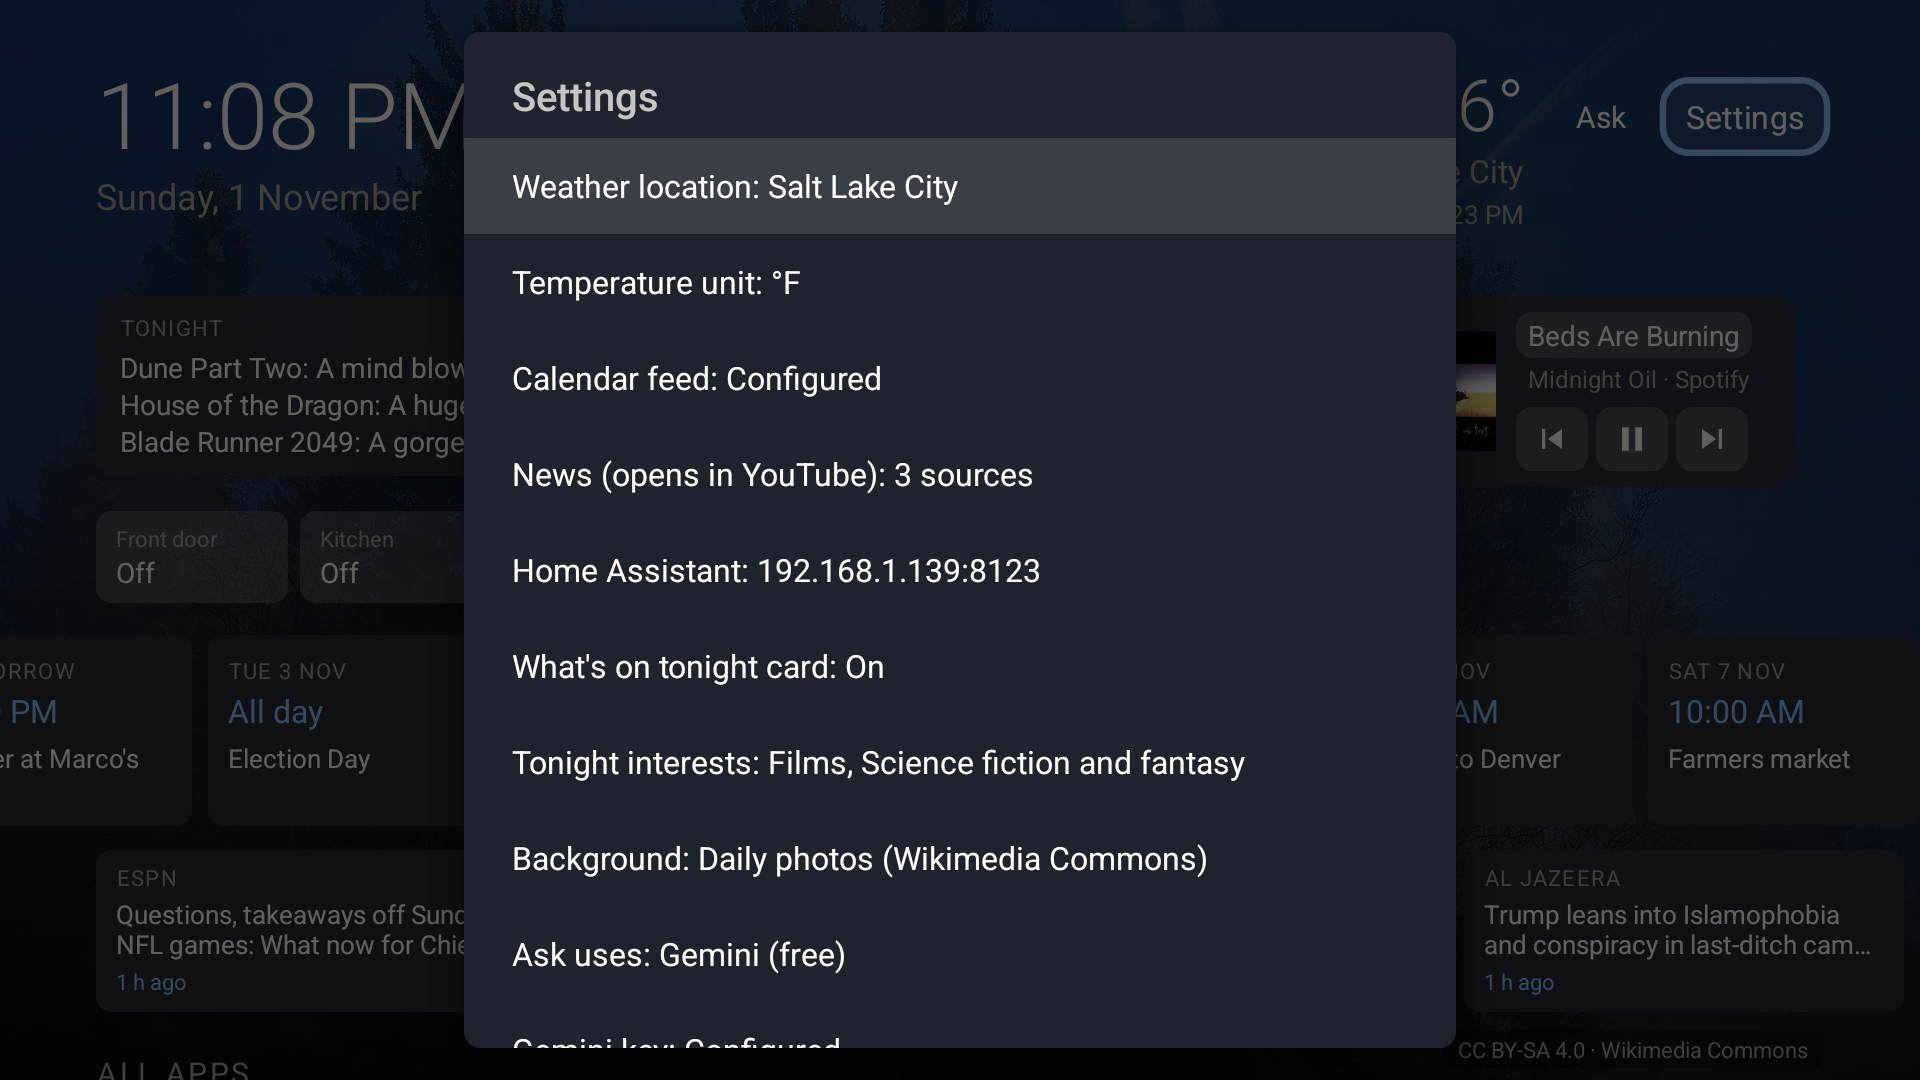
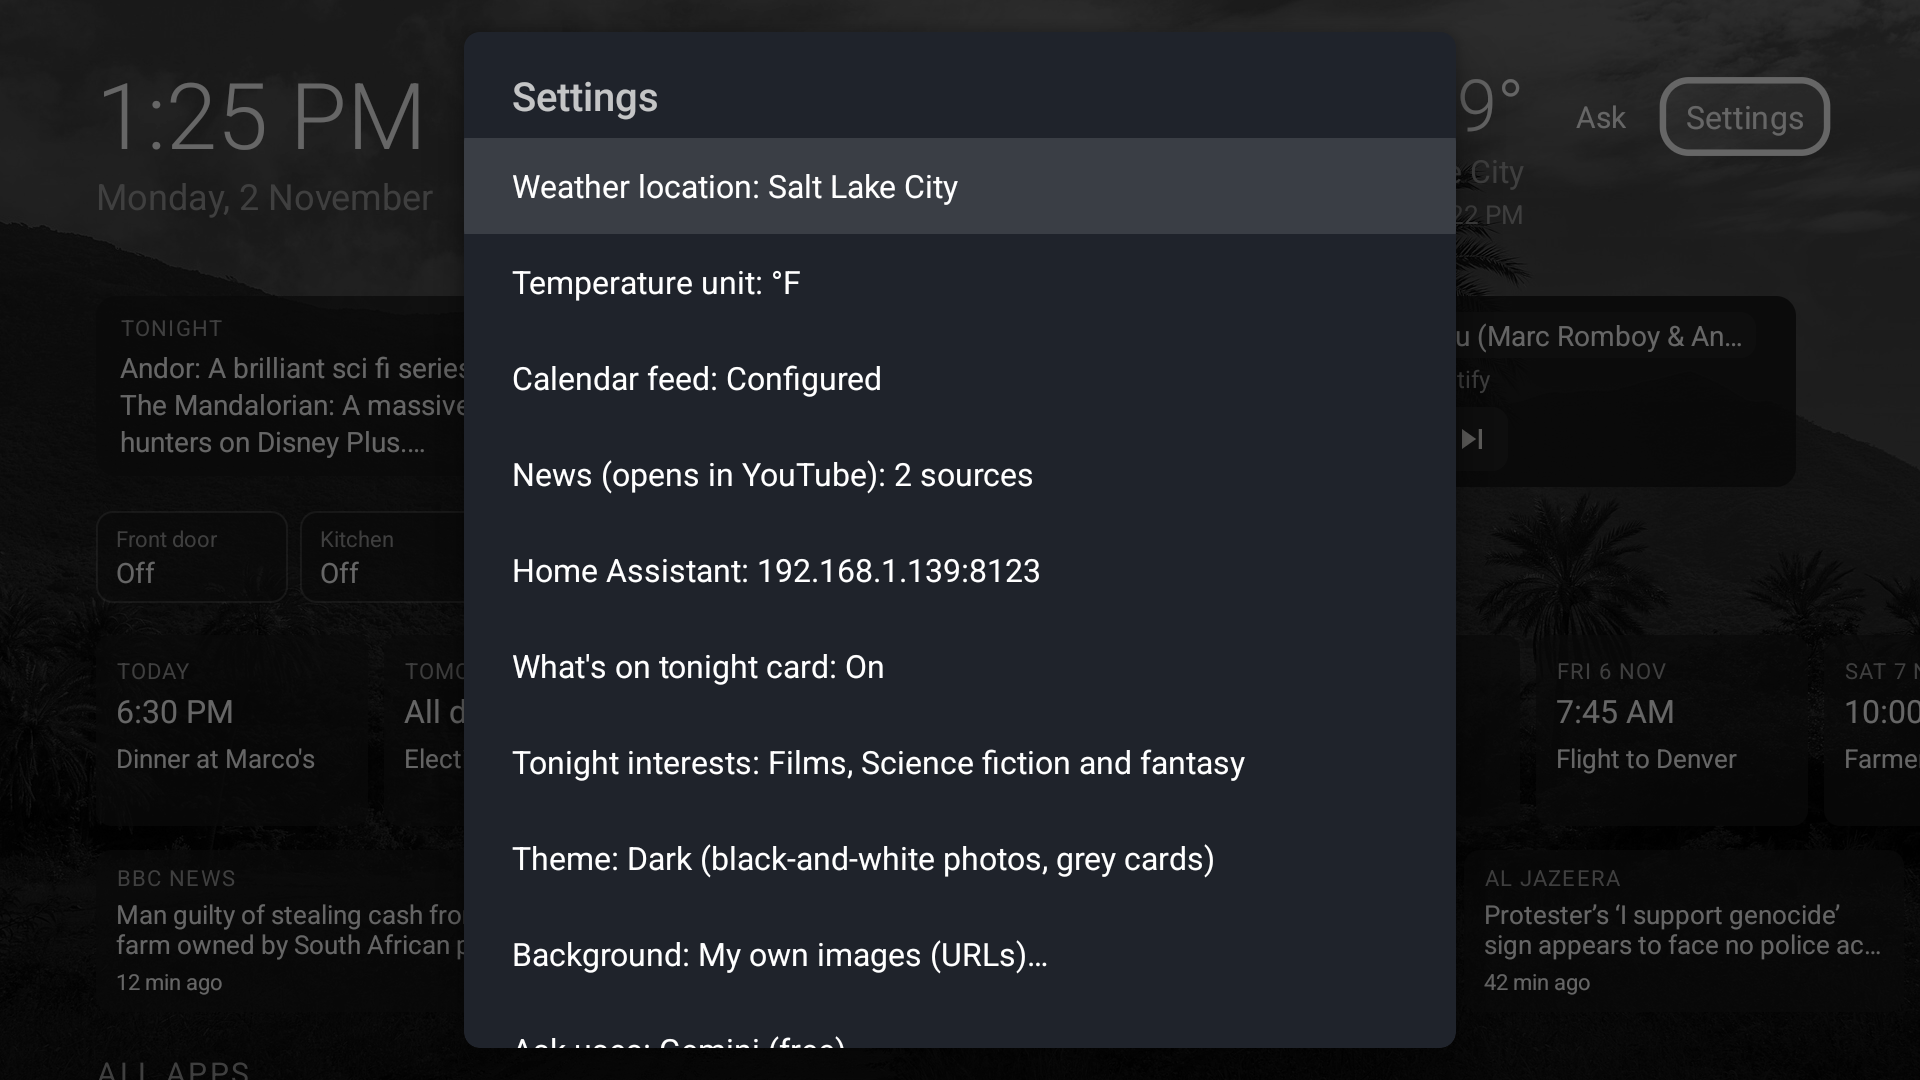
Store: Dark-theme screenshot replaces the app-grid shot, new Settings shot, listing text mentions both themes

diff --git a/PLAY_LISTING.md b/PLAY_LISTING.md
@@ -14,7 +14,7 @@ Everything the Play Console asks for when the app is submitted, ready to paste. 
 
 **Full description** (4000 max):
 
-> TV Launcher replaces the busy Google TV home with one calm screen: every installed app in a grid, the time and date, the weather, the next things on your calendar, and optional cards for what's on tonight, the news, what's playing and your smart home. No recommendations, no ads, no accounts, no tracking.
+> TV Launcher replaces the busy Google TV home with one calm screen: every installed app in a grid, the time and date, the weather, the next things on your calendar, and optional cards for what's on tonight, the news, what's playing and your smart home. Two looks: colour photos, or a Dark theme with the same photos in black and white. No recommendations, no ads, no accounts, no tracking.
 >
 > WHAT YOU GET
 > • All apps in one grid, sorted A–Z, using each app's TV banner. Pin favourites to the top, hide the ones you never use.
@@ -22,7 +22,7 @@ Everything the Play Console asks for when the app is submitted, ready to paste. 
 > • Weather from Open-Meteo for any city you type (starts with the city of your time zone).
 > • Calendar cards: paste the private ICS link of a Google, Outlook or iCloud calendar and see the next 7 days in a row you scroll through; press a card for the details. Several feeds are merged.
 > • Background photos: Wikimedia Commons' picture of the day, your own Unsplash key, or your own image URLs. Plain dark if you prefer.
-> • Two themes: Photo (colour background photos, glass cards) or Dark (the same photos in black and white, grey cards).
+> • Two themes, under Settings > Theme: Photo (colour background photos, glass cards, blue accents) or Dark (the same photos in black and white, grey glass cards, white text).
 > • Screensaver: a full-screen slideshow of those photos with a clock and captions.
 > • Ask: press one button, speak or type a question, and get an answer from Google Gemini (free key) or Claude (paid key, with live web search). Titles the answer mentions open directly in Netflix, HBO Max, Apple TV, Disney+, Prime Video or YouTube.
 > • Cielo mini-split air-conditioner card: power, temperature, mode and fan, with the room's temperature and humidity.
@@ -54,7 +54,7 @@ Everything the Play Console asks for when the app is submitted, ready to paste. 
 | App icon | 512×512 PNG | `store/icon_512.png` |
 | Feature graphic | 1024×500 PNG | `store/feature_graphic_1024x500.png` |
 | TV banner | 1280×720 PNG (required for Android TV listings) | `store/tv_banner_1280x720.png` |
-| TV screenshots | 1920×1080, 16:9, at least one; up to eight | `store/screenshot_*.png` (home, app grid, Tonight, Ask, event details, Settings, screensaver, set up from your phone) |
+| TV screenshots | 1920×1080, 16:9, at least one; up to eight | `store/screenshot_*.png` (home, Dark theme, Tonight, Ask, event details, Settings, screensaver, set up from your phone) |
 
 ## App content declarations
 

diff --git a/README.md b/README.md
@@ -172,7 +172,8 @@ instead.
   answers and the adb instructions for users, plus the release checklist.
 - `store/`: 512×512 icon, 1024×500 feature graphic, 1280×720 TV banner and eight 1920×1080
   screenshots taken on a Google TV Streamer (the calendar cards come from a demo feed and the
-  Home Assistant chips from `tools/mock_ha.py`, not from a real home).
+  Home Assistant chips from `tools/mock_ha.py`, not from a real home; the Dark-theme shot's
+  background is "San Juan Valley", a CC0 featured picture on Wikimedia Commons).
 
 ### Moving a sideloaded box to the Play build
 
